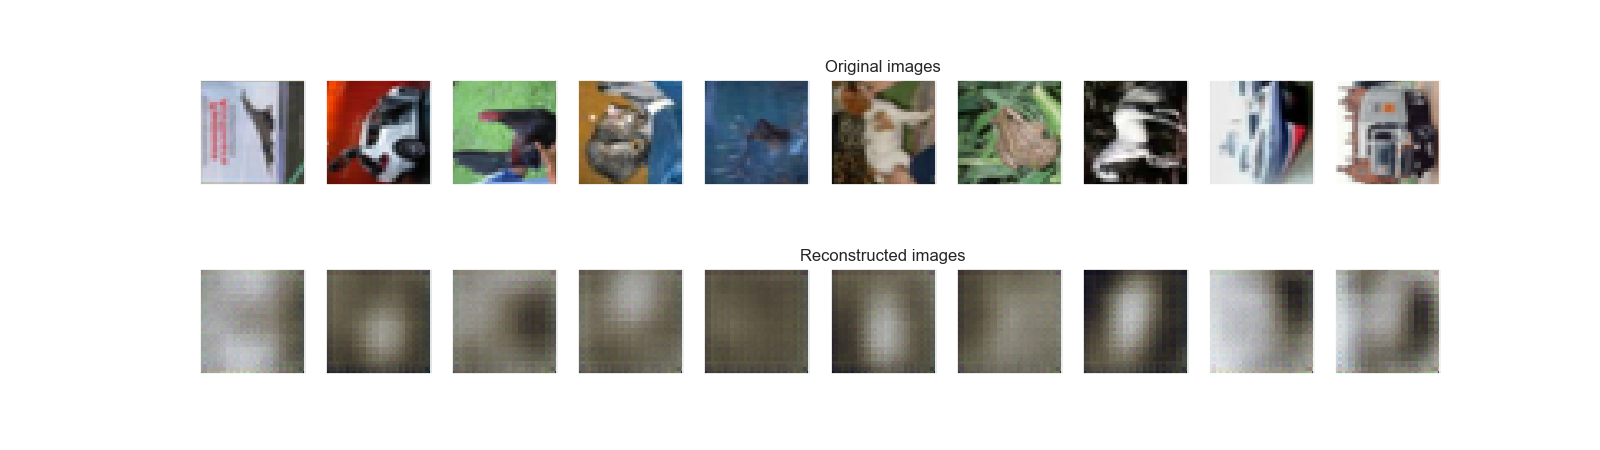
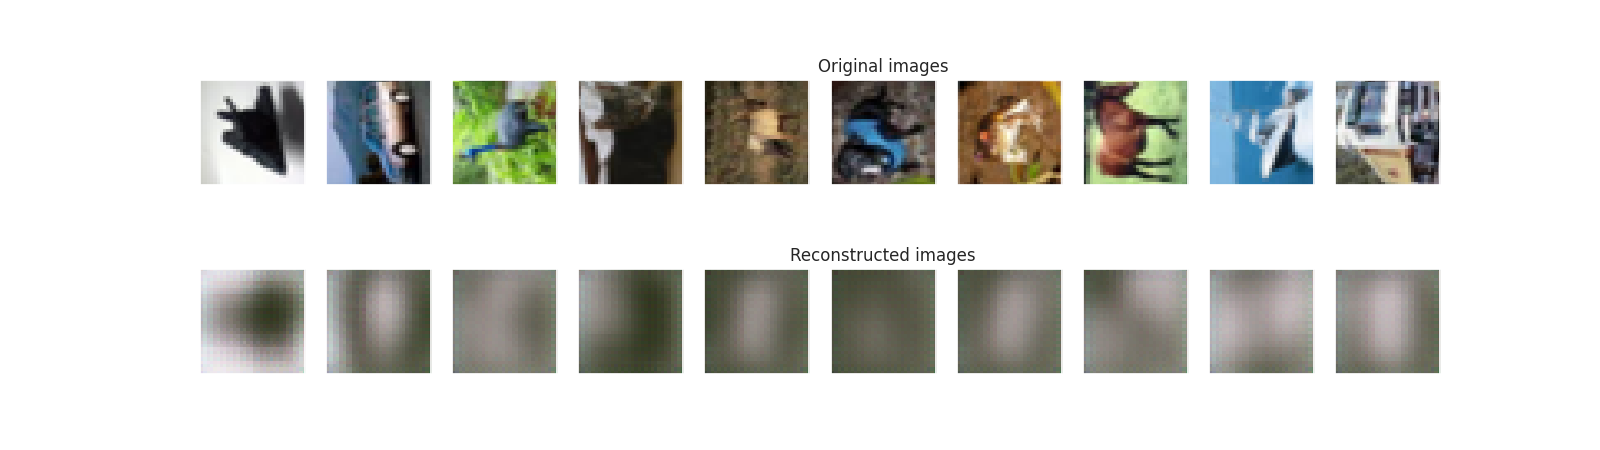
384 latent space

Changed region(s): [[0.125, 0.1244, 0.9062, 0.4356], [0.125, 0.56, 0.9062, 0.84]]

diff --git a/simclrSTL10.py b/simclrSTL10.py
@@ -104,30 +104,30 @@ print("Number of workers:", NUM_WORKERS)
 
 """As in many tutorials before, we provide pre-trained models. Note that those models are slightly larger as normal (~100MB overall) since we use the default ResNet-18 architecture. If you are running this notebook locally, make sure to have sufficient disk space available."""
 
-import urllib.request
-from urllib.error import HTTPError
-# Github URL where saved models are stored for this tutorial
-base_url = "https://raw.githubusercontent.com/phlippe/saved_models/main/tutorial17/"
-# Files to download
-pretrained_files = ["SimCLR.ckpt", "ResNet.ckpt",
-                    "tensorboards/SimCLR/events.out.tfevents.SimCLR",
-                    "tensorboards/classification/ResNet/events.out.tfevents.ResNet"]
-pretrained_files += [f"LogisticRegression_{size}.ckpt" for size in [10, 20, 50, 100, 200, 500]]
+# import urllib.request
+# from urllib.error import HTTPError
+# # Github URL where saved models are stored for this tutorial
+# base_url = "https://raw.githubusercontent.com/phlippe/saved_models/main/tutorial17/"
+# # Files to download
+# pretrained_files = ["SimCLR.ckpt", "ResNet.ckpt",
+#                     "tensorboards/SimCLR/events.out.tfevents.SimCLR",
+#                     "tensorboards/classification/ResNet/events.out.tfevents.ResNet"]
+# pretrained_files += [f"LogisticRegression_{size}.ckpt" for size in [10, 20, 50, 100, 200, 500]]
 # Create checkpoint path if it doesn't exist yet
 os.makedirs(CHECKPOINT_PATH, exist_ok=True)
 
-# For each file, check whether it already exists. If not, try downloading it.
-for file_name in pretrained_files:
-    file_path = os.path.join(CHECKPOINT_PATH, file_name)
-    if "/" in file_name:
-        os.makedirs(file_path.rsplit("/",1)[0], exist_ok=True)
-    if not os.path.isfile(file_path):
-        file_url = base_url + file_name
-        print(f"Downloading {file_url}...")
-        try:
-            urllib.request.urlretrieve(file_url, file_path)
-        except HTTPError as e:
-            print("Something went wrong. Please try to download the file from the GDrive folder, or contact the author with the full output including the following error:\n", e)
+# # For each file, check whether it already exists. If not, try downloading it.
+# for file_name in pretrained_files:
+#     file_path = os.path.join(CHECKPOINT_PATH, file_name)
+#     if "/" in file_name:
+#         os.makedirs(file_path.rsplit("/",1)[0], exist_ok=True)
+#     if not os.path.isfile(file_path):
+#         file_url = base_url + file_name
+#         print(f"Downloading {file_url}...")
+#         try:
+#             urllib.request.urlretrieve(file_url, file_path)
+#         except HTTPError as e:
+#             print("Something went wrong. Please try to download the file from the GDrive folder, or contact the author with the full output including the following error:\n", e)
 
 """## SimCLR
 
@@ -320,6 +320,9 @@ def train_simclr(batch_size, max_epochs=500, **kwargs):
         pl.seed_everything(42) # To be reproducable
         model = SimCLR(max_epochs=max_epochs, **kwargs)
         trainer.fit(model, train_loader, val_loader)
+        
+        torch.save(model.convnet.state_dict(), "./results/simclrSTL10.pt")
+        
         model = SimCLR.load_from_checkpoint(trainer.checkpoint_callback.best_model_path) # Load best checkpoint after training
 
     return model
@@ -327,7 +330,7 @@ def train_simclr(batch_size, max_epochs=500, **kwargs):
 """A common observation in contrastive learning is that the larger the batch size, the better the models perform. A larger batch size allows us to compare each image to more negative examples, leading to overall smoother loss gradients. However, in our case, we experienced that a batch size of 256 was sufficient to get good results."""
 
 simclr_model = train_simclr(batch_size=256, 
-                            hidden_dim=128, 
+                            hidden_dim=384, 
                             lr=5e-4, 
                             temperature=0.07, 
                             weight_decay=1e-4, 

diff --git a/reconstructCIFAR10.py b/reconstructCIFAR10.py
@@ -164,7 +164,7 @@ class Decoder(nn.Module):
                  num_input_channels : int,
                  base_channel_size : int,
                  latent_dim : int,
-                 act_fn : object = nn.LeakyReLU):
+                 act_fn : object = nn.ReLU):
         """
         Inputs:
             - num_input_channels : Number of channels of the image to reconstruct. For CIFAR, this parameter is 3
@@ -175,7 +175,9 @@ class Decoder(nn.Module):
         super().__init__()
         c_hid = base_channel_size
         self.linear = nn.Sequential(
-            nn.Linear(latent_dim, 2*16*c_hid),
+            nn.Linear(latent_dim, 384),
+            act_fn(),
+            nn.Linear(384, 2*16*c_hid),
             act_fn()
         )
         self.net = nn.Sequential(
@@ -296,11 +298,11 @@ def test_epoch(encoder, decoder, device, dataloader, loss_fn):
 def plot_ae_outputs(encoder,decoder,n=10):
     plt.figure(figsize=(16,4.5))
     
-    targets = np.array(test_dataset.targets)
+    targets = np.array(train_dataset.targets)
     t_idx = {i:np.where(targets==i)[0][0] for i in range(n)}
     for i in range(n):
       ax = plt.subplot(2,n,i+1)
-      img = test_dataset[t_idx[i]][0].unsqueeze(0).to(device)
+      img = train_dataset[t_idx[i]][0].unsqueeze(0).to(device)
       encoder.eval()
       decoder.eval()
       with torch.no_grad():

diff --git a/simclrCifar10.py b/simclrCifar10.py
@@ -86,7 +86,8 @@ from pytorch_lightning.callbacks import LearningRateMonitor, ModelCheckpoint
 # Path to the folder where the datasets are/should be downloaded (e.g. CIFAR10)
 DATASET_PATH = "./data"
 # Path to the folder where the pretrained models are saved
-CHECKPOINT_PATH = "../results/CIFAR10"
+# CHECKPOINT_PATH = "../results/CIFAR10"
+CHECKPOINT_PATH = "../saved_models/cifar10"
 # In this notebook, we use data loaders with heavier computational processing. It is recommended to use as many
 # workers as possible in a data loader, which corresponds to the number of CPU cores
 NUM_WORKERS = os.cpu_count()
@@ -332,7 +333,7 @@ def train_simclr(batch_size, max_epochs=500, **kwargs):
 """A common observation in contrastive learning is that the larger the batch size, the better the models perform. A larger batch size allows us to compare each image to more negative examples, leading to overall smoother loss gradients. However, in our case, we experienced that a batch size of 256 was sufficient to get good results."""
 
 simclr_model = train_simclr(batch_size=256, 
-                            hidden_dim=128, 
+                            hidden_dim=384, 
                             lr=5e-4, 
                             temperature=0.07, 
                             weight_decay=1e-4, 
